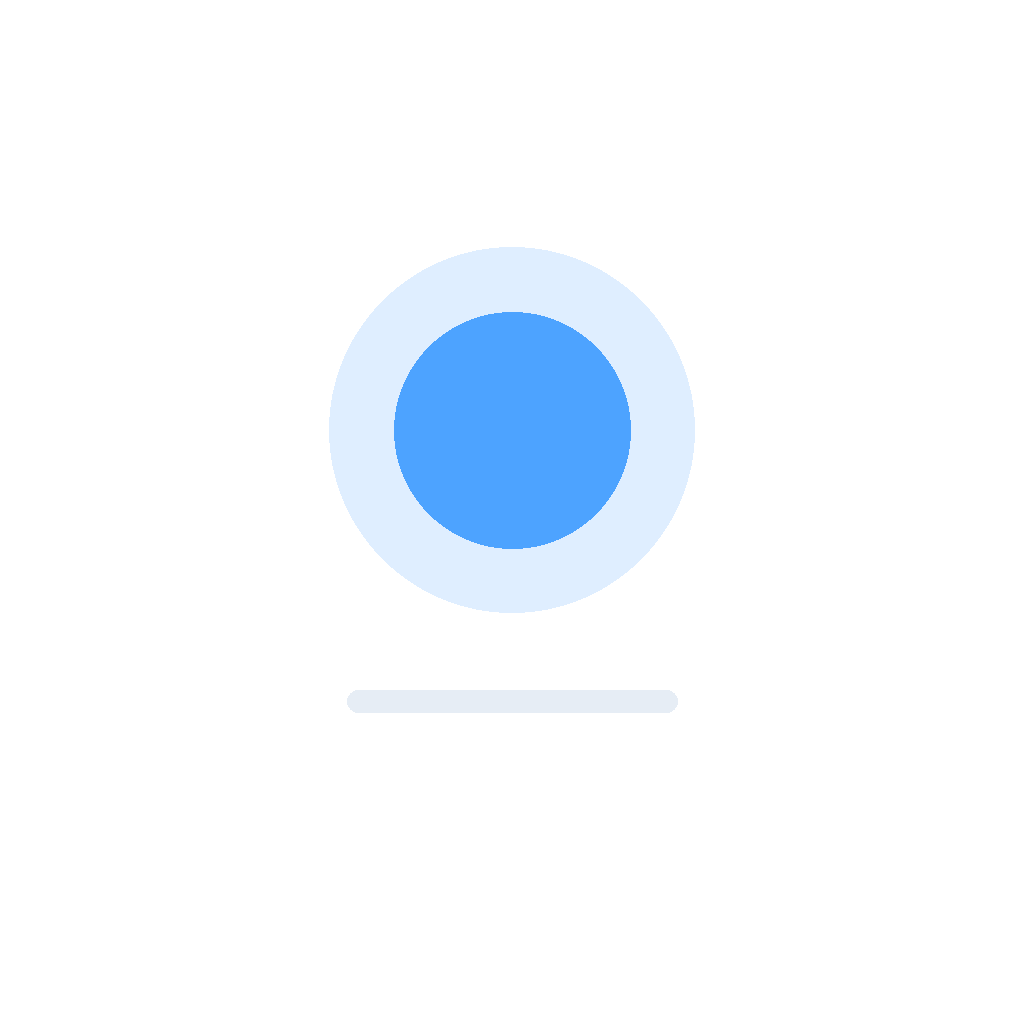
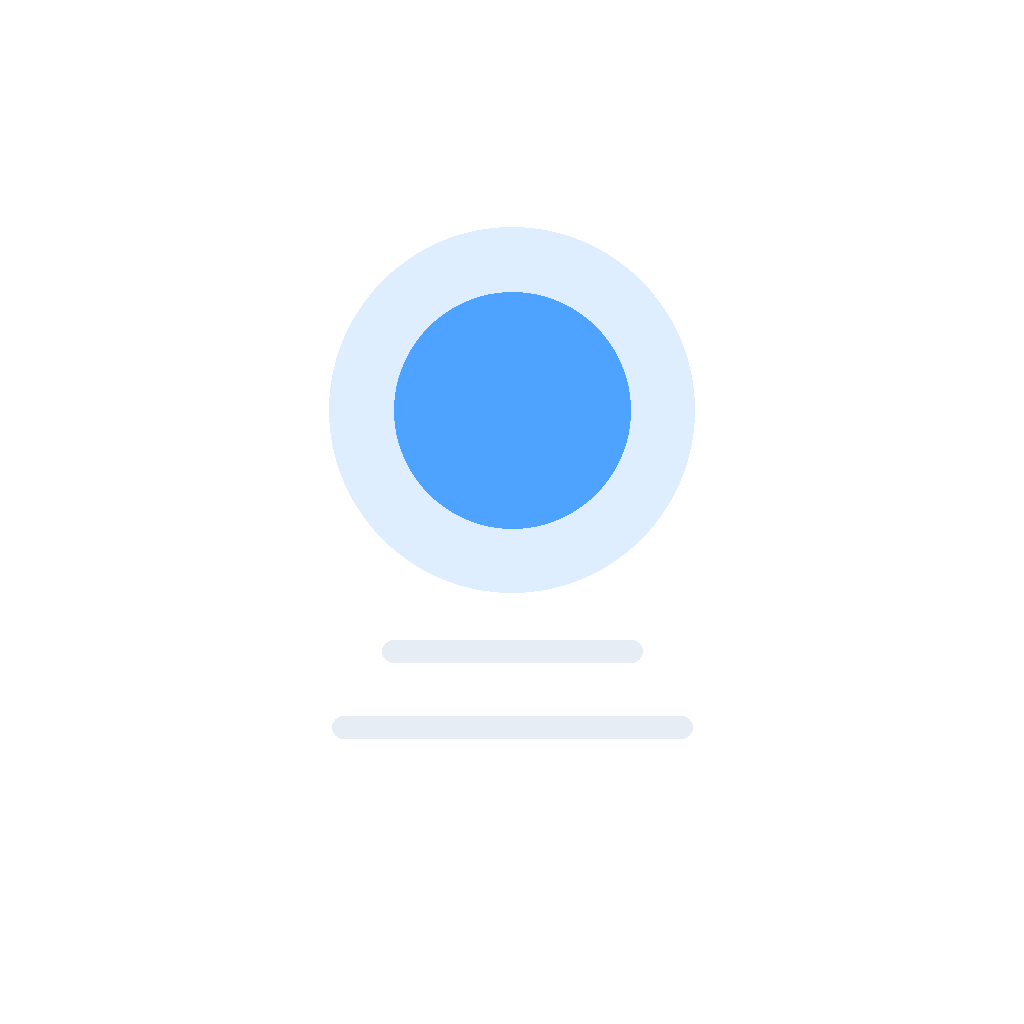
brand/: every asset redrawn with the two floors
The owner asked for the social avatars, banners and wordmark images to match the site's new mark.

- mark-*.png (the avatars, 32 to 1024 px, and the transparent 1024) are now the two-floor mark, the same
  drawing as mark-2ceilings-*.png; both names are kept so existing links still work.
- banner-x, banner-reddit, banner-youtube and lockup-transparent: the standalone mark's one floor is painted
  out (each row filled from its own background, the gradient being vertical) and two floors drawn in the
  proportions of mark-2ceilings-1024.png (tops at 1.94r and 2.58r below the dot's centre, 0.19r thick,
  half-widths 1.10r and 1.52r); the wordmark's dot gets the same two floors at 60% ink, as in the site header.
  The banners keep their layout.
- wordmark-dark, wordmark-light, wordmark-transparent and preview: two floors under the dot at 60% ink, and
  the composition re-centred vertically so the floors don't sit on the bottom edge.
- brand/README.md and BRAND.md no longer list these as waiting to be redrawn.

Claude-Session: https://claude.ai/code/session_01GViQ4SzihLu3EsS24D3sJT

diff --git a/brand/README.md b/brand/README.md
@@ -3,8 +3,9 @@
 Mark: a signal dot above two floors, the two loss ceilings: the daily limit above the max
 loss. The dot stays above them; that is the product. On the site the dot is a status light:
 it ripples while troid's ledger is live and holds still when its data stops (BRAND.md, Mark).
-The social avatars and banners below (mark-*.png, banner-*.png, wordmark-*.png, lockup and
-preview) still carry the one-floor mark and the plain wordmark until they are redrawn.
+Every file here carries the two floors: mark-*.png is the same drawing as mark-2ceilings-*.png
+(kept under both names so existing links still work); in the wordmark, lockup, preview and
+banners the wordmark's dot sits above its two floors at 60% ink, as in the site header.
 
 Wordmark: troid in IBM Plex Mono SemiBold with the o replaced by the dot, above its two
 floors. The dot is

diff --git a/BRAND.md b/BRAND.md
@@ -111,8 +111,7 @@ ring in the signal colour, just outside the halo, shows live instead; in forced 
 with a ring for live.
 
 The mark on its own is the dot above its two floors (`brand/mark-2ceilings-*`): the favicon,
-the touch icon and the share image use it. The social avatars and banners in brand/ still
-carry the one-floor mark and the plain wordmark until they are redrawn.
+the touch icon, the share image, the social avatars and the banners use it.
 
 Source files live in brand/. The wordmark's dot is nudged 5% of a cell right of
 geometric centre; do not "correct" it. The site header carries the same nudge in CSS
